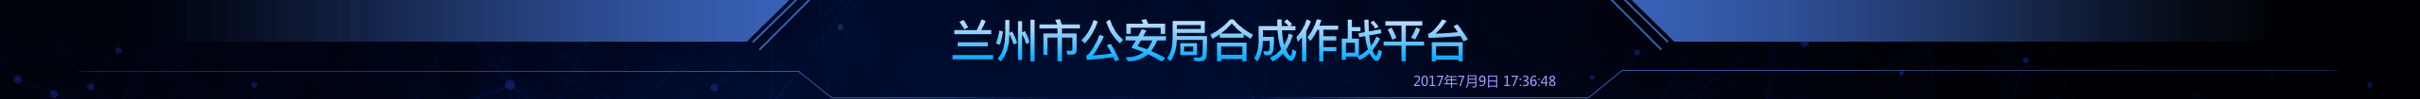
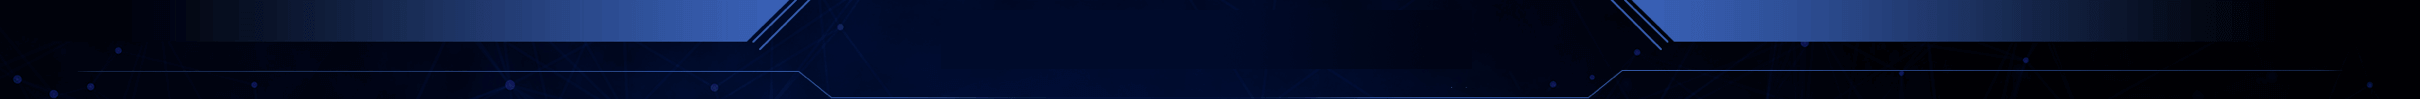
标题使用文字渐变；footer添加链接

Changed region(s): [[0.3719, 0.1818, 0.6198, 0.6364], [0.5888, 0.7576, 0.6508, 0.8788]]

diff --git a/src/pages/home.scss b/src/pages/home.scss
@@ -17,6 +17,16 @@
     margin: 0 auto;
     height: px(99);
     background: url('./../images/header.png') center/contain no-repeat;
+    display: flex;
+    align-items: center;
+    justify-content: center;
+    > .title {
+      background: linear-gradient(to bottom, #b8e0ff 30%, #13adfe);
+      -webkit-background-clip: text;
+      color: transparent;
+      font-size: px(40);
+      font-weight: bold;
+    }
   }
   > main {
     width: px(2420);
@@ -43,30 +53,6 @@
         left: 0; right: 0; top: 0; bottom: 0;
         border-radius: 4px;
         box-shadow:
-          17px 0 0 -16px #0f3361,
-          -17px 0 0 -16px #0f3361,
-          0 17px 0 -16px #0f3361,
-          0 -17px 0 -16px #0f3361,
-          9px 0 0 -8px #0d4483,
-          -9px 0 0 -8px #0d4483,
-          0 9px 0 -8px #0d4483,
-          0 -9px 0 -8px #0d4483;
-      }
-    }
-    .bordered2 {
-      border: 1px solid #0764bc;
-      border-radius: 4px;
-      position: relative;
-      // box-shadow: 0 0 2px 0 #0f3361, inset 0 0 2px 0 #0f3361;
-      box-shadow: inset 0 0 px(60) 0 #1f3d85;
-      background-color: #0f113a;
-      &::before {
-        pointer-events: none;
-        position: absolute;
-        content: '';
-        left: 0; right: 0; top: 0; bottom: 0;
-        border-radius: 4px;
-        box-shadow: 
           17px 0 0 -16px #0f3361,
           -17px 0 0 -16px #0f3361,
           0 17px 0 -16px #0f3361,
@@ -188,6 +174,7 @@
     .籍贯 {
       height: px(753);
       background-color: transparent;
+      box-shadow: inset 0 0 px(60) 0 #1f3d85;
       > .wrapper {
         position: relative;
         width: 100%;
@@ -296,5 +283,14 @@
     display: flex;
     align-items: center;
     justify-content: center;
+    > .link {
+      color: #fff;
+      margin: 0 px(10);
+      transition: all 300ms ease-in-out;
+      &:hover {
+        text-decoration: none;
+        transform: scale(1.2);
+      }
+    }
   }
 }

diff --git a/src/components/chart-6.tsx b/src/components/chart-6.tsx
@@ -17,7 +17,7 @@ export const Chart6 = () => {
           type: 'map',
           map: 'CN', // 自定义扩展图表类型
           data: [
-            // { name: '甘肃省', value: 1 },
+            // { name: '上海市', value: 1 },
             // {name: '四川省', value: 100},
           ],
           // label: { show: false },
@@ -35,8 +35,8 @@ export const Chart6 = () => {
     myChart.setOption(option);
   }, [])
   return (
-    <div className="bordered2 籍贯">
-      <h2>全兰州市犯罪人员籍贯分布地</h2>
+    <div className="bordered 籍贯">
+      {/* <h2>全兰州市犯罪人员籍贯分布地</h2> */}
       <div className="wrapper">
         <div ref={divRef} className="chart"></div>
         <div className="monitor-wrapper">

diff --git a/src/pages/home.tsx b/src/pages/home.tsx
@@ -19,7 +19,9 @@ export const Home = () => {
   const currentYear = new Date().getFullYear()
   return (
     <div className="home-header-wrapper">
-      <header></header>
+      <header>
+        <div className="title">国家级公安合成作战平台</div>
+      </header>
       <main>
         <section className="section1">
           <Chart1 />
@@ -64,7 +66,10 @@ export const Home = () => {
           </div>
         </section>
       </main>
-      <footer> &copy; ximuli 2020-{currentYear}</footer>
+      <footer> &copy;
+        <a className="link" target="_blank" href="https://github.com/ximuli">ximuli</a>
+        2020-{currentYear}
+      </footer>
     </div>
   );
 };
